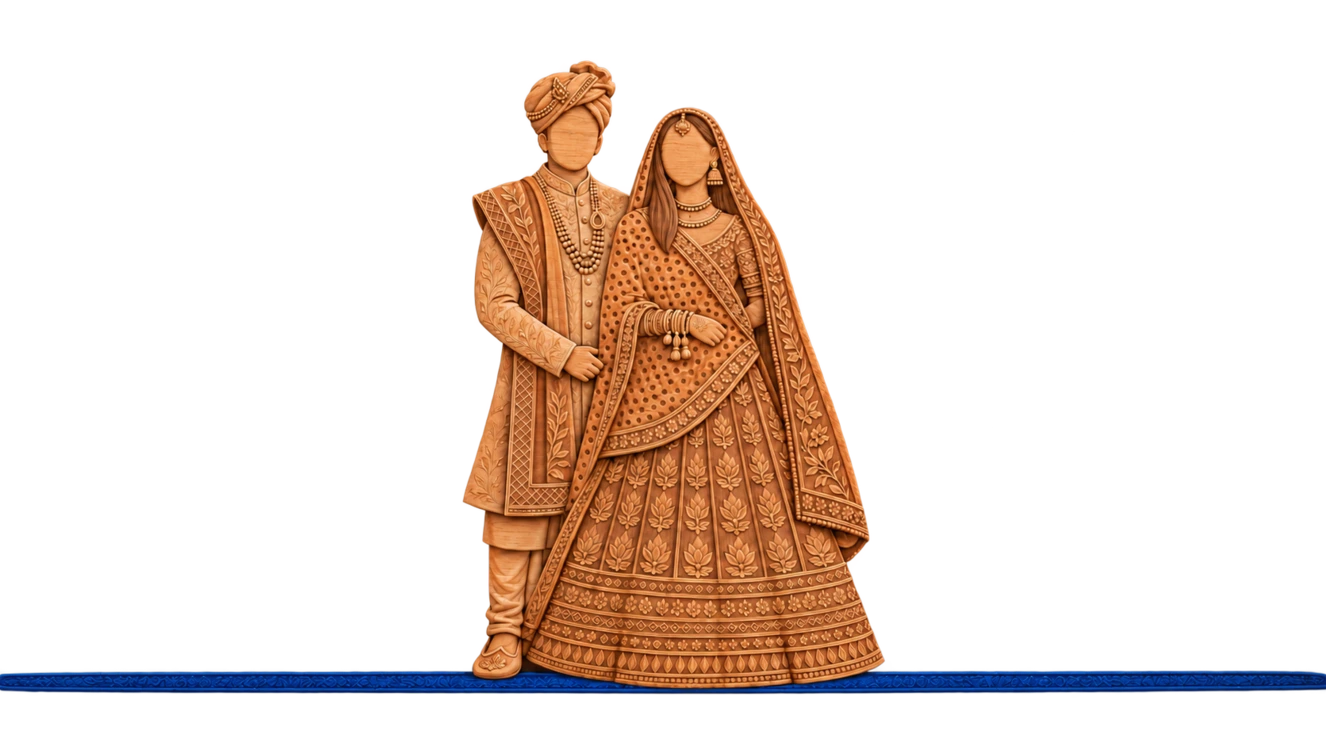
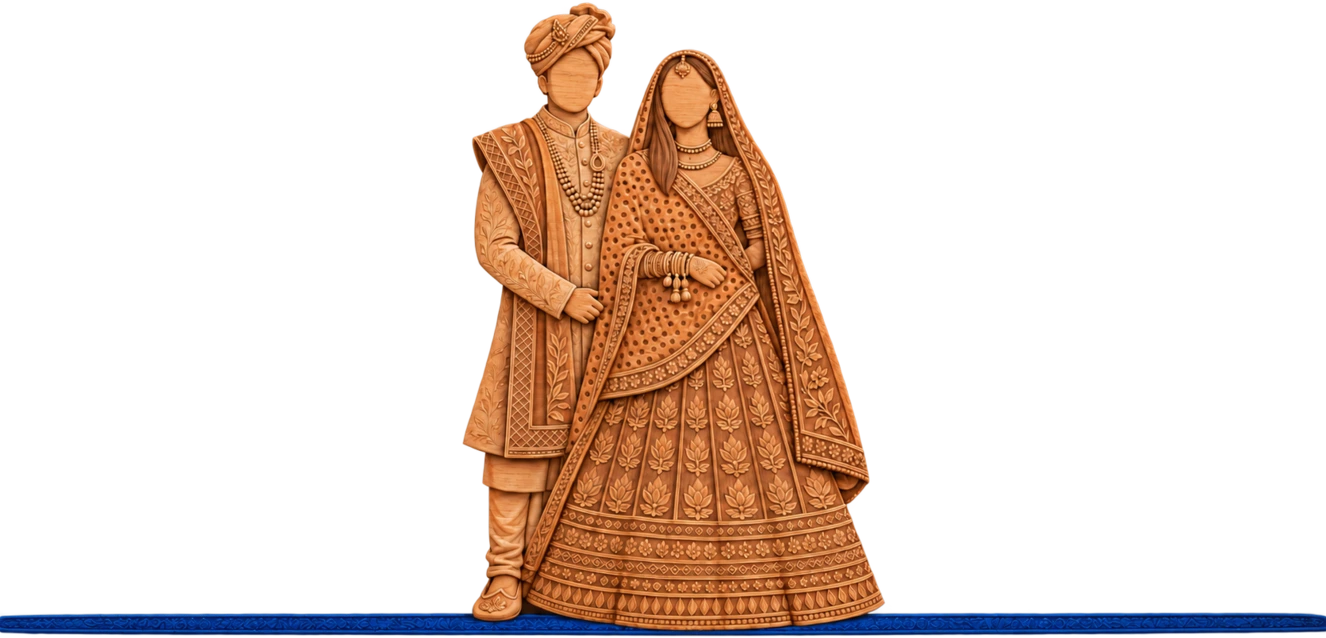
Scale couple illustration edge-to-edge and rest blue base directly on top of tabs bar

Changed region(s): [[0.0, 0.0, 1.0, 1.0]]

diff --git a/stay.html b/stay.html
@@ -202,7 +202,7 @@ body {
   padding-left: 0 !important;
   padding-right: 0 !important;
   padding-top: calc(72px + env(safe-area-inset-top, 0px)) !important;
-  padding-bottom: calc(66px + 24px + env(safe-area-inset-bottom, 0px)) !important;
+  padding-bottom: calc(64px + env(safe-area-inset-bottom, 0px)) !important;
   display: flex !important;
   flex-direction: column !important;
   align-items: center !important;
@@ -739,27 +739,29 @@ body {
   text-align: left !important;
 }
 
-/* ── Section F: Royal Couple Illustration (Figma Node 53:559 · 442x230px) ── */
+/* ── Section F: Royal Couple Illustration (Figma Node 53:559 · Edge-to-Edge) ── */
 .stay-couple-section {
   width: 100% !important;
-  max-width: 442px !important;
+  max-width: 100% !important;
   display: flex !important;
   justify-content: center !important;
-  align-items: center !important;
-  margin: 28px auto 0 auto !important;
-  padding-bottom: 0 !important;
+  align-items: flex-end !important;
+  margin: 28px 0 0 0 !important;
+  padding: 0 !important;
   box-sizing: border-box !important;
-  overflow: hidden !important;
+  overflow: visible !important;
 }
 
 .stay-couple-img {
   width: 100% !important;
-  max-width: 442px !important;
+  max-width: 100% !important;
   height: auto !important;
-  aspect-ratio: 442 / 230 !important;
-  object-fit: contain !important;
+  aspect-ratio: 1326 / 638 !important;
+  object-fit: cover !important;
   display: block !important;
-  margin: 0 auto !important;
+  margin: 0 !important;
+  padding: 0 !important;
+  vertical-align: bottom !important;
   pointer-events: none !important;
   user-select: none !important;
   -webkit-user-select: none !important;
